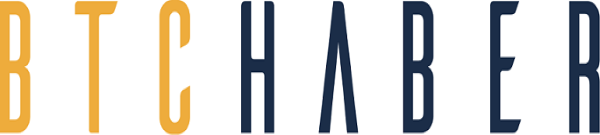
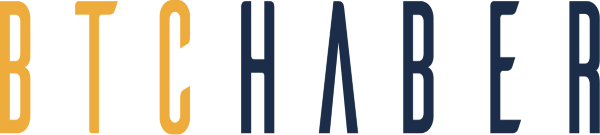
btchaber fixed

diff --git a/index.html b/index.html
@@ -889,7 +889,7 @@
             <div class="sponsorsgrid">
                 <div class="sponsorsdivv">
         
-                    <img src="images/btchaber_logo_beyaz.png" alt="" class="sponsoricons">
+                    <img src="images/btchaber.png" alt="" class="sponsoricons">
         
                     <div class="sponsorwriting">
                         BTCHaber
